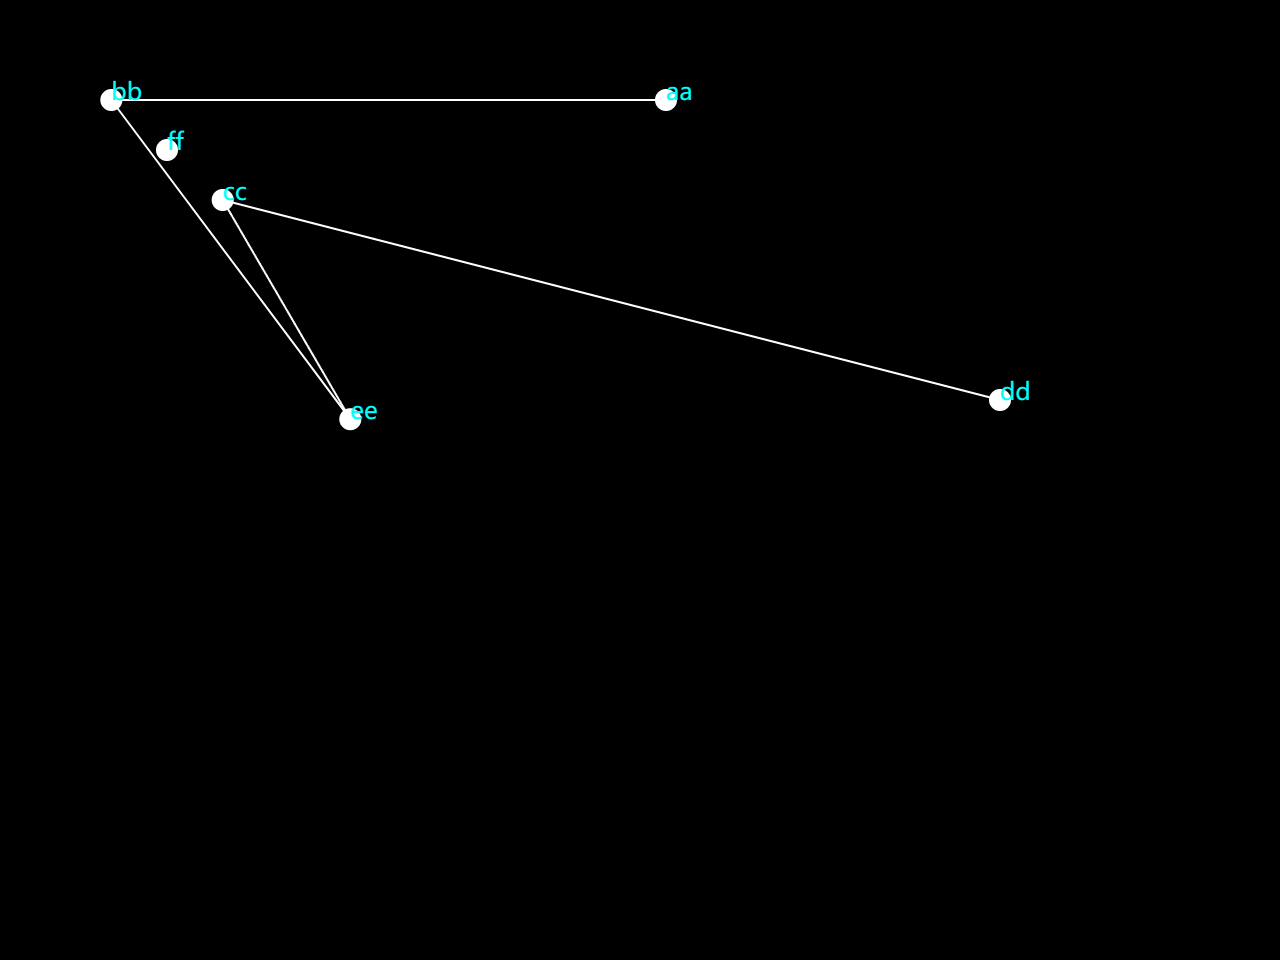
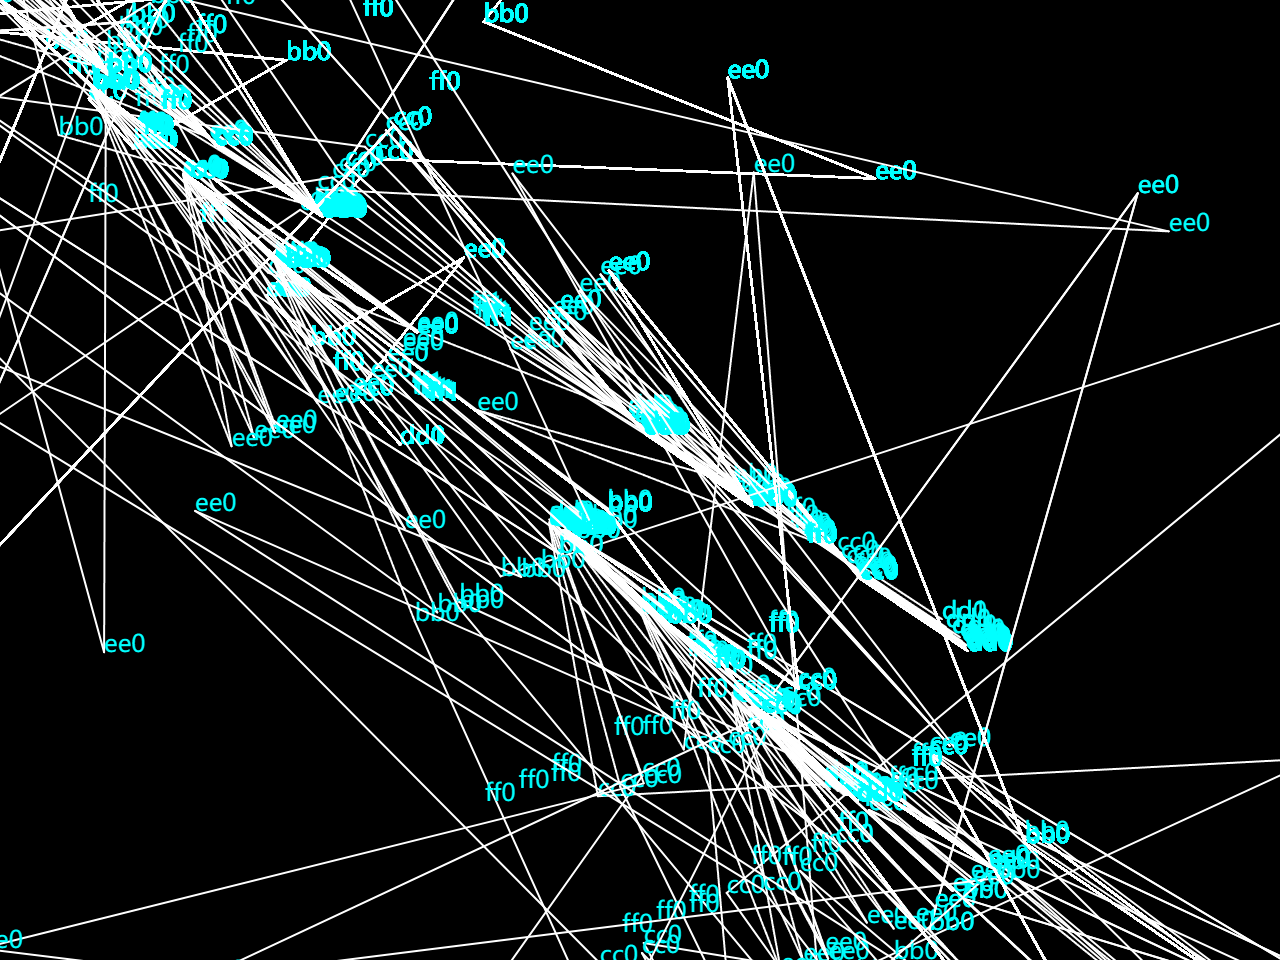
bad koch

diff --git a/data/p5s/2.js b/data/p5s/2.js
@@ -6,42 +6,43 @@ let cvs = new Cvs([640,480],1,0);
 let sz = cvs.size()
 
 
-console.log(25**0.5)
-
-
 let objCvs;  // for Image File Saving.
-function setup() {
-  objCvs = createCanvas(...sz);
-  background(0)
-  blendMode(BLEND);
-  stroke(255)
-  function unitdraw(aa,dd){
 
-    let bb = []
-    let cc = []
-    let ff = []
+let aa = [0,0]
+let bb = [200,222]
 
-    let ee = cvs.center()
+function unitdraw(aa,dd,nn){
 
-    bb[0] = (dd[0]-aa[0])/3
-    bb[1] = (dd[1]-aa[1])/3
+  let bb = []
+  let cc = []
+  let ff = []
 
-    cc[0] = (dd[0]-aa[0])*2/3
-    cc[1] = (dd[1]-aa[1])*2/3
+  let ee = cvs.center()
 
-    ff[0] = (dd[0]-aa[0])/2
-    ff[1] = (dd[1]-aa[1])/2
+  bb[0] = aa[0]+(dd[0]-aa[0])/3
+  bb[1] = aa[1]+(dd[1]-aa[1])/3
 
-    let alpha = Math.atan((dd[1]-aa[1])/(dd[0]-aa[0]))*180/Math.PI
-    let beta = alpha - 60
-    let aaee = ((dd[0]-aa[0])**2+(dd[1]-aa[1])**2)**0.5/3**0.5
+  cc[0] = aa[0]+(dd[0]-aa[0])*2/3 
+  cc[1] = aa[1]+(dd[1]-aa[1])*2/3
 
-    console.log(alpha)
+  ff[0] = aa[0]+(dd[0]-aa[0])/2
+  ff[1] = aa[1]+(dd[1]-aa[1])/2
 
-    ee[0] = aa[0]-Math.sin(beta)*aaee
-    ee[1] = Math.cos(beta)*aaee + aa[1]
+  theta = degrees(Math.atan((dd[1]-aa[1])/(dd[0]-aa[0])))
 
-    strokeWeight(11)
+  function geteeff(){
+    let eeff = (((dd[0]-aa[0])**2+(dd[1]-aa[1])**2)**0.5)/2*(3**0.5)
+    return eeff
+  }
+
+  function getee(){
+    let eeff = geteeff()
+    ee[0] = (ff[0] - Math.sin(theta)*eeff)
+    ee[1] = (ff[1] + Math.cos(theta)*eeff)
+  }
+  
+  function drawit(){
+    strokeWeight(nn*2)
     point(...aa)
     point(...bb)
     point(...cc)
@@ -49,29 +50,46 @@ function setup() {
     point(...ee)
     point(...ff)
 
-    strokeWeight(1)
-    line(...aa,...bb)
-    line(...bb,...ee)
-    line(...ee,...cc)
-    line(...cc,...dd)
+    if (nn>0){
+      unitdraw(aa,bb,nn-1)
+      unitdraw(bb,ee,nn-1)
+      unitdraw(ee,cc,nn-1)
+      unitdraw(cc,dd,nn-1)
+    }
+    else {
+      strokeWeight(1)
+      stroke(255)
+      line(...aa,...bb)
+      line(...bb,...ee)
+      line(...ee,...cc)
+      line(...cc,...dd)
+    }
 
     noStroke()
     fill(0,255,255)
-    text('aa', ...aa);
-    text('bb', ...bb);
-    text('cc', ...cc);
-    text('dd', ...dd);
-    text('ee', ...ee);
-    text('ff', ...ff);
-
+    text('aa'+nn, ...aa);
+    text('bb'+nn, ...bb);
+    text('cc'+nn, ...cc);
+    text('dd'+nn, ...dd);
+    text('ee'+nn, ...ee);
+    text('ff'+nn, ...ff);
   }
 
-  unitdraw([0,0],[500,200])
+  getee()
+
+  drawit()
+}
+function setup() {
+  objCvs = createCanvas(...sz);
+  background(0)
+  blendMode(BLEND);
+  stroke(255)
+
 
 }
 
 function draw() {
-  
+  unitdraw(aa,bb,1)
 }
 
 
@@ -103,8 +121,10 @@ function mouseReleased(){
 
 function mouseDragged(){
   if (mouseButton === LEFT) {
+    bb = [mouseX,mouseY]
   }
   else if (mouseButton === CENTER) {
+    aa = [mouseX,mouseY]
   }
   else if (mouseButton === RIGHT) {
   }

diff --git a/data/json/blog/202404.js b/data/json/blog/202404.js
@@ -11,11 +11,11 @@
 
 
 loglist.push({
-    'title':'错误的科赫曲线',
+    'title':'坏科赫曲线',
     'slug':'koch',
     'date':"2024.05.15",
     'log_content':[
-        "三角函数解错了。截图留念。",
+        "三角函数解不出来了。截图留念。",
     ],
     'p5s':2,
     'show':true
